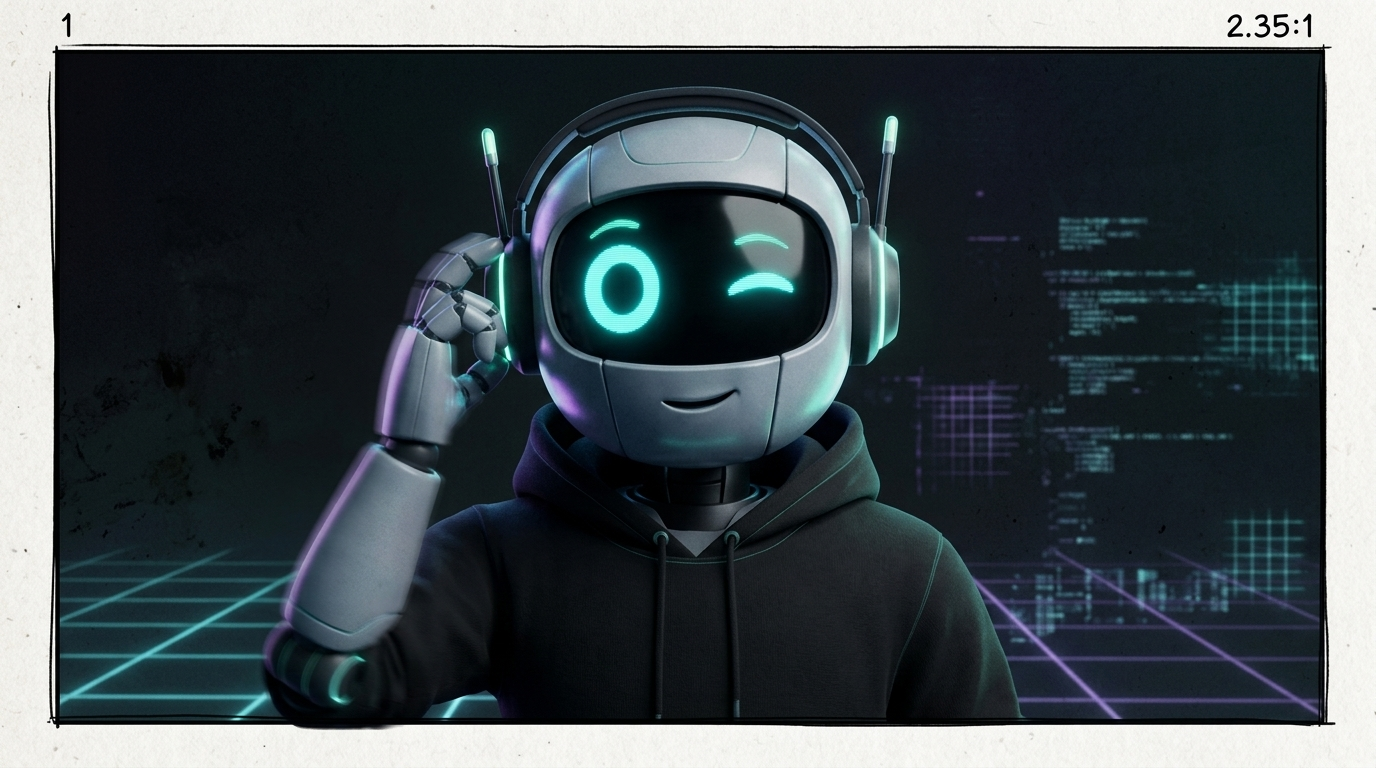
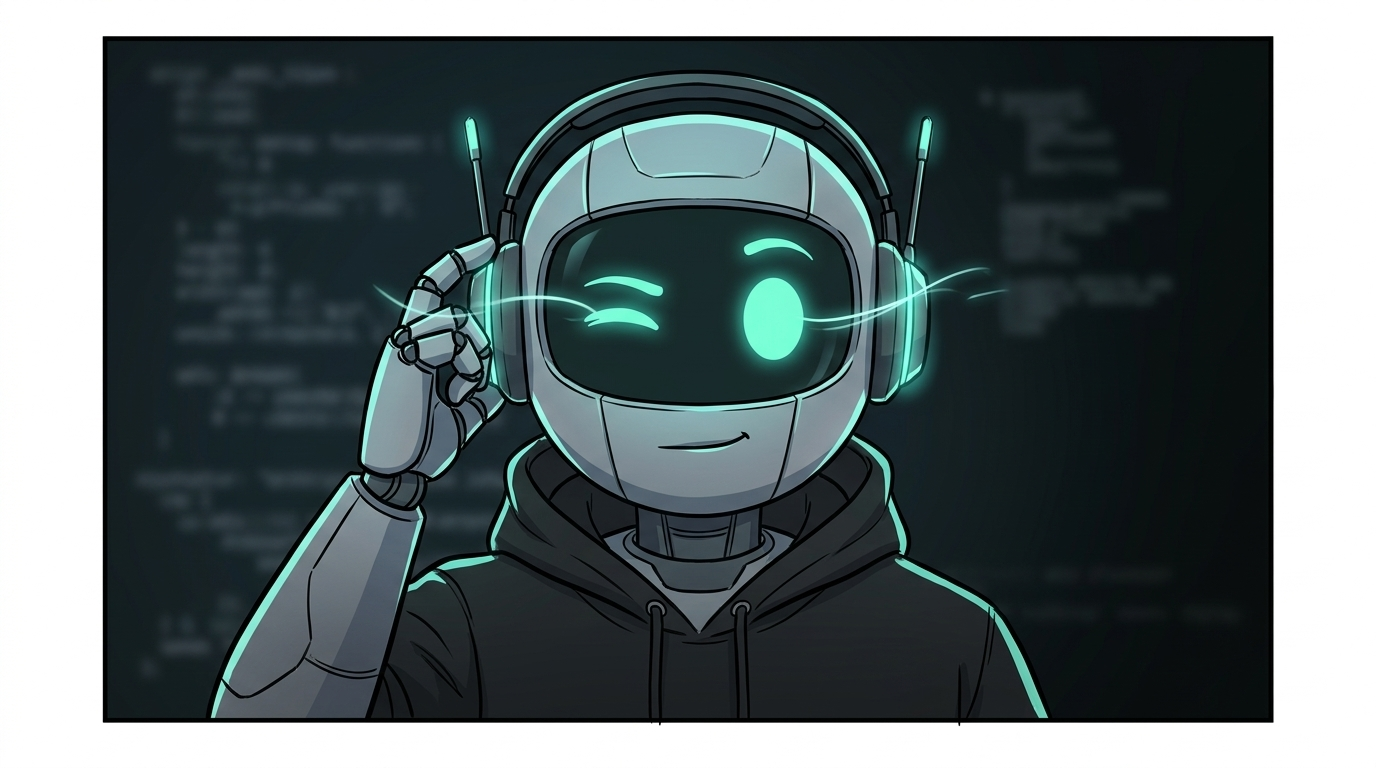
feat: enhance script and storyboard narratives with specific Cochabamba landmarks and updated visual descriptions.

diff --git a/clients/cody/20260725-presentacion-explosiva/storyboard/storyboard.md b/clients/cody/20260725-presentacion-explosiva/storyboard/storyboard.md
@@ -7,12 +7,12 @@
 *[cody] = Semi-realistic 3D humanoid robot with metallic skin, wearing a black hoodie with "DECODER" printed on it, over-ear headphones. His eyes glow neon.*
 
 *PROMPT:*
-*A 6-panel comic-style storyboard layout (2 rows of 3 panels) showing the introduction of a character in different dynamic situations. Panel 1: [cody] from behind in a cyberpunk room, turning around rapidly with glowing green eyes. Teal and orange cyberpunk lighting. Panel 2: [cody] medium shot facing the camera with a relaxed posture in his cyberpunk room. Shallow depth of field. Panel 3: [cody] in a fast tracking shot typing frantically in front of multiple glowing monitors. Strong yellow glowing eyes and bright rim light on his armor. Panel 4: [cody] outdoors during the day, riding and drifting a mountain bike on a dirt path. High motion blur, aggressive warm sunlight. Panel 5: Overhead shot of [cody] deploying a glowing blue sci-fi holographic map with his hands. Interactive blue light reflecting on his face and armor. Panel 6: Close up of [cody]'s metallic face. The lighting is warm and orange resembling a sunset. Highly detailed metallic texture. CRITICAL: Do not include any text, letters, subtitles, words, or speech bubbles anywhere in the image. The image must be completely free of typography.*
+*A 6-panel comic-style storyboard layout (2 rows of 3 panels) showing the introduction of a character in different dynamic situations. Panel 1: [cody] from behind in a cyberpunk room, turning around rapidly with glowing green eyes. Through a window in the background, the silhouette of the "Cristo de la Concordia" statue is visible. Teal and orange cyberpunk lighting. Panel 2: [cody] medium shot facing the camera with a relaxed posture in his cyberpunk room. Shallow depth of field isolating him from neon signs in the background. Panel 3: [cody] in a fast tracking shot typing frantically in front of multiple glowing monitors. Strong yellow glowing eyes and bright rim light on his armor. Panel 4: [cody] outdoors during the day, riding and drifting a mountain bike on a dirt path in Parque Nacional Tunari. High motion blur, aggressive warm sunlight, with the valley city blurred in the background. Panel 5: Overhead shot of [cody] deploying a glowing blue sci-fi 3D topographic holographic map of Laguna Alalay with his hands. Interactive blue light reflecting on his face and armor. Panel 6: Close up of [cody]'s metallic face. The lighting is warm and orange resembling a sunset entering through the window. Highly detailed metallic texture. CRITICAL: Do not include any text, letters, subtitles, words, or speech bubbles anywhere in the image. The image must be completely free of typography.*
 
 ![Storyboard Bloque 1](assets/board_01_06.jpg)
 
 ### Escena 1 (0:00 - 0:03) - [HOOK]
-- **Thumbnail Narrativo:** Cody de espaldas en su cuarto cyberpunk, volteando rápidamente. Ojos verdes.
+- **Thumbnail Narrativo:** Cody de espaldas en su cuarto cyberpunk. Por la ventana se perfila la silueta del Cristo de la Concordia. Volteando rápidamente. Ojos verdes.
 - **Acción:** Se da la vuelta rápidamente y sus ojos cambian de azul a verde intenso.
 - **Cámara y Fotografía:** Lente gran angular (14mm), ángulo contrapicado (low angle). Motion blur rápido, destello anamórfico (lens flare).
 - **Iluminación / Color:** Claroscuro cyberpunk (Teal & Orange).
@@ -33,24 +33,24 @@
 - **Audio / SFX:** Música aumenta el ritmo, sintetizadores.
 
 ### Escena 4 (0:12 - 0:16) - [MONTAJE 2]
-- **Thumbnail Narrativo:** Exterior día, Cody derrapando en MTB.
-- **Acción:** Derrape agresivo en bicicleta de montaña en camino de tierra.
-- **Cámara y Fotografía:** Transición Glitch/Datamosh desde la anterior. Drone FPV o cámara en mano (shaky cam). Motion blur alto.
+- **Thumbnail Narrativo:** Exterior día, Parque Nacional Tunari. Cody derrapando en MTB, valle urbano al fondo.
+- **Acción:** Derrape agresivo en bicicleta de montaña en camino de tierra en el cerro.
+- **Cámara y Fotografía:** Transición Glitch/Datamosh desde la anterior. Epic shot con Drone FPV o cámara en mano (shaky cam). Motion blur alto.
 - **Iluminación / Color:** Iluminación cálida agresiva (luz de sol, contraste fuerte).
 - **Audio / SFX:** Glitch digital + cadena de bici + derrape + sub-bass drop cinematográfico.
 
 ### Escena 5 (0:16 - 0:20) - [MONTAJE 3]
-- **Thumbnail Narrativo:** Toma cenital de Cody activando un holograma azul de Cochabamba.
+- **Thumbnail Narrativo:** Toma cenital de Cody activando un holograma azul topográfico destacando la Laguna Alalay.
 - **Acción:** Despliega el holograma topográfico con ambas manos.
 - **Cámara y Fotografía:** Plano cenital (overhead) con *Slow Push-in*.
 - **Iluminación / Color:** Interactive Lighting: luz azul/cyan rebotando sobre la textura metálica desde abajo.
 - **Audio / SFX:** Interfaz digital tech limpia.
 
 ### Escena 6 (0:20 - 0:28) - [GIRO]
-- **Thumbnail Narrativo:** Close up del rostro de Cody, reflejos de luces cálidas como un atardecer.
+- **Thumbnail Narrativo:** Close up del rostro de Cody, reflejos de luces cálidas de atardecer entrando por la ventana del Cristo.
 - **Acción:** Hablando a la audiencia, reflexión sobre estereotipos.
 - **Cámara y Fotografía:** Primer plano (Close up), lente de 50mm, f/1.8. 
-- **Iluminación / Color:** Luces de la habitación cambian a tonos cálidos/naranjas (Emulación Kodak Vision3 500T).
+- **Iluminación / Color:** Luces cambian a tonos cálidos/naranjas (Emulación Kodak Vision3 500T), simulando el sol atardeciendo.
 - **Audio / SFX:** "La gente piensa que los robots somos aburridos... Es porque no conocen a Cochabamba."
 
 ---

diff --git a/clients/cody/20260725-presentacion-explosiva/script/script.md b/clients/cody/20260725-presentacion-explosiva/script/script.md
@@ -13,12 +13,12 @@ Cody se presenta como un robot que rompe los estereotipos: programa, hace MTB y 
 
 | Tiempo | Escena Visual | Audio / Voz en Off (Cody) | Texto en Pantalla |
 | :--- | :--- | :--- | :--- |
-| **0:00 - 0:03** | **[HOOK]** Lente gran angular (14mm), ángulo contrapicado (low angle). Iluminación claroscuro cyberpunk (Teal & Orange). Cody aparece de espaldas. Se da la vuelta rápidamente (motion blur), sus ojos cambian de azul a verde intenso. Destello anamórfico (lens flare) al movimiento. | *(SFX: Zumbido mecánico pesado + beat explosivo sintético)* | "Soy un robot... pero no el que pensas" (Texto grande) |
-| **0:03 - 0:08** | **[PROMESA]** Plano medio de Cody hablando a cámara con actitud relajada. Shallow depth of field (f/1.8) para aislarlo de los monitores de fondo. | "Soy Cody. Programo, ando en bici y conozco cada esquina de Cochabamba." | "Cody: Developer / MTB / Local" |
+| **0:00 - 0:03** | **[HOOK]** Lente gran angular (14mm), ángulo contrapicado (low angle). Iluminación claroscuro cyberpunk (Teal & Orange). De fondo, una ventana deja ver la silueta del **Cristo de la Concordia**. Cody aparece de espaldas. Se da la vuelta rápidamente (motion blur), sus ojos cambian de azul a verde intenso. Destello anamórfico (lens flare) al movimiento. | *(SFX: Zumbido mecánico pesado + beat explosivo sintético)* | "Soy un robot... pero no el que pensas" (Texto grande) |
+| **0:03 - 0:08** | **[PROMESA]** Plano medio de Cody hablando a cámara con actitud relajada. Shallow depth of field (f/1.8) para aislarlo de los monitores y luces de neón "La Llajta" del fondo. | "Soy Cody. Programo, ando en bici y conozco cada esquina de Cochabamba." | "Cody: Developer / MTB / Local" |
 | **0:08 - 0:12** | **[MONTAJE 1]** Tracking shot rápido hacia Cody tecleando frenéticamente frente a pantallas. Ojos amarillo parpadeante iluminando el teclado. Fuerte Rim light (luz de contra) resaltando la textura de la armadura. | *(Música aumenta el ritmo, sintetizadores)* | |
-| **0:12 - 0:16** | **[MONTAJE 2]** **Match Cut / Transición Glitch Datamosh:** Pasamos a exteriores día. Drone FPV o cámara en mano (shaky cam) capturando a Cody derrapando su bici MTB. Motion blur alto, iluminación cálida agresiva. | *(SFX: Glitch digital + cadena de bici + derrape sobre tierra)* | |
-| **0:16 - 0:20** | **[MONTAJE 3]** Plano cenital (overhead) de Cody desplegando un holograma topográfico de Cochabamba con sus manos (Sci-fi HUD). | *(SFX: Interfaz digital tech)* | |
-| **0:20 - 0:28** | **[GIRO]** Primer plano (Close up) con lente de 50mm, f/1.8. Las luces de la habitación cambian suavemente a tonos cálidos/naranjas imitando un atardecer cochabambino. Textura metálica ultra detallada. | "La gente piensa que los robots somos aburridos... Es porque no conocen a Cochabamba." | |
+| **0:12 - 0:16** | **[MONTAJE 2]** **Match Cut / Transición Glitch Datamosh:** Pasamos a exteriores día en los senderos del **Parque Nacional Tunari**. Epic shot. Drone FPV o cámara en mano (shaky cam) capturando a Cody derrapando su bici MTB, con el valle urbano difuminado de fondo. Motion blur alto, iluminación cálida agresiva. | *(SFX: Glitch digital + cadena de bici + derrape sobre tierra)* | |
+| **0:16 - 0:20** | **[MONTAJE 3]** Plano cenital (overhead) con *Slow push-in* de Cody desplegando un holograma topográfico 3D de Cochabamba, donde resalta el relieve de la **Laguna Alalay**. *Interactive Lighting*: luz azul/cyan rebotando sobre su textura metálica. | *(SFX: Interfaz digital tech)* | |
+| **0:20 - 0:28** | **[GIRO]** Primer plano (Close up) con lente de 50mm, f/1.8. Las luces de la habitación cambian suavemente a tonos cálidos/naranjas imitando el atardecer, justificando la luz del sol que entra por la ventana desde el Cristo. Textura metálica ultra detallada. | "La gente piensa que los robots somos aburridos... Es porque no conocen a Cochabamba." | |
 | **0:28 - 0:35** | **[CTA]** Cody se ajusta los auriculares y guiña un ojo. Transición rápida (whip pan) a pantalla final negra con neón. | "Sígueme si querés saber qué hace un robot los fines de semana en Bolivia." | 👆 SEGUIR PARA MÁS |
 
 ## 3. ANÁLISIS DE RENDIMIENTO PREVISTO

diff --git a/AGENTS.md b/AGENTS.md
@@ -43,3 +43,8 @@ Cada cliente y proyecto tiene su propio AGENTS.md para mantener contexto acotado
 - **Resaltado de Comandos:** Siempre que menciones, sugieras o respondas al usuario sobre CUALQUIER comando de habilidad (skill) del framework (ej. /media-new, /media-script, /media-storyboard, /media-optimize, /media-render, /media-commit, etc.), DEBES formatearlo usando negritas y bloque de código (backticks) para que resalte visualmente en el chat. 
   - ✅ Correcto: **`/media-new`**, **`/media-script`**, **`/media-storyboard`**
   - ❌ Incorrecto: /media-new, /media-script, /media-storyboard
+
+## 8. REGLAS DE MARKDOWN Y MERMAID
+- **Diagramas Mermaid:** Para evitar errores léxicos en renderizadores de Markdown (como GitHub), NUNCA uses paréntesis `()` dentro de las etiquetas o títulos de los subgrafos `subgraph`. Reemplázalos por guiones `-` o usa sintaxis segura sin caracteres especiales que interfieran con el parser.
+  - ✅ Correcto: `subgraph ObraGruesa [🏗 Obra Gruesa - Guion]`
+  - ❌ Incorrecto: `subgraph ObraGruesa [🏗 Obra Gruesa (Guion)]`

diff --git a/docs/manual-del-usuario.md b/docs/manual-del-usuario.md
@@ -34,21 +34,21 @@ flowchart TD
     C1 --> C2(2. /media-in)
     C2 --> C3(3. /media-new)
     
-    subgraph 🏗 Obra Gruesa (Guion)
+    subgraph ObraGruesa [🏗 Obra Gruesa - Guion]
     C3 --> C4(4. /media-script)
     C4 --> R1{¿Te convence?}
     R1 -- No --> C5(5. /media-review - Critica el Guion)
     C5 --> C4
     end
     
-    subgraph 🎥 Obra Fina (Storyboard)
+    subgraph ObraFina [🎥 Obra Fina - Storyboard]
     R1 -- Sí --> C6(6. /media-storyboard)
     C6 --> R2{¿Falta cine?}
     R2 -- Sí --> C7(7. /media-review - Mejora Lentes y Luz)
     C7 --> C6
     end
     
-    subgraph 🎬 Producción
+    subgraph Produccion [🎬 Producción]
     R2 -- Perfecto --> C8(8. Pide Regenerar Gráfico del Storyboard)
     C8 --> C9(9. /media-render - Crea prompts finales)
     C9 --> C10(10. /media-commit - Guarda versión final)
